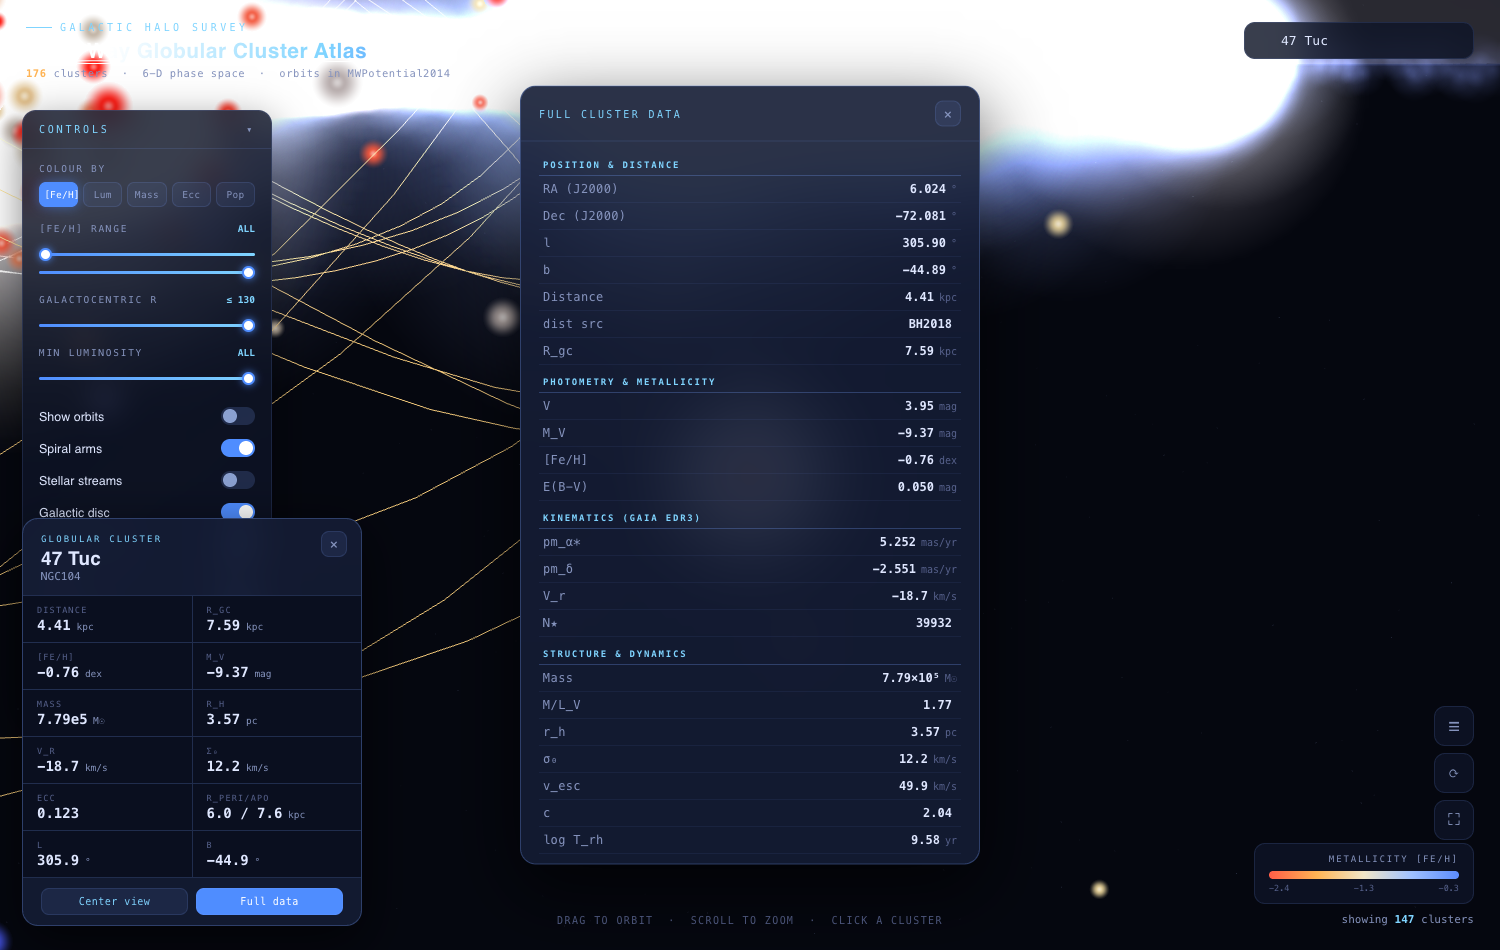
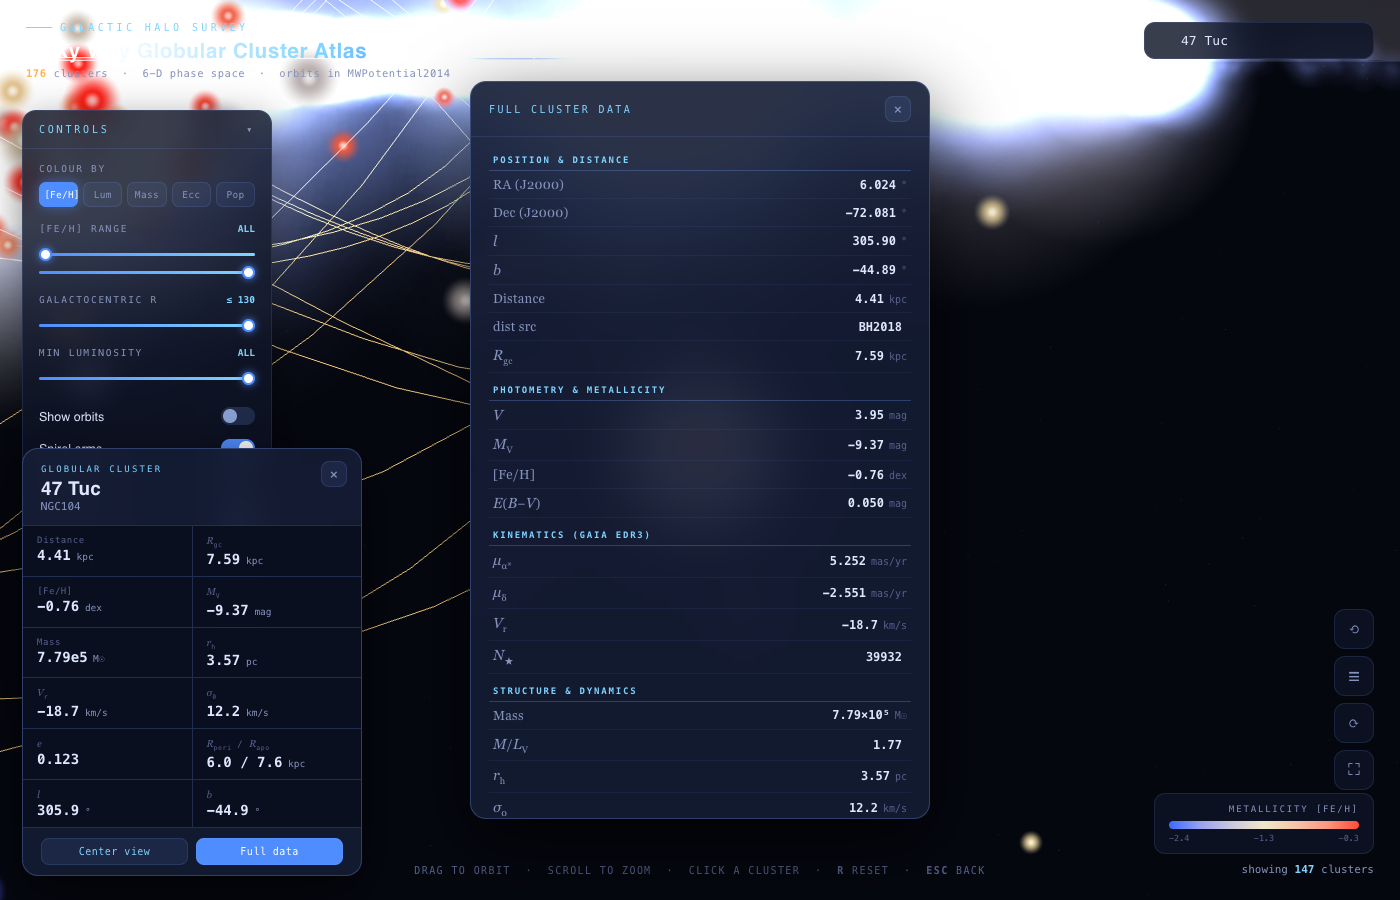
style(viz): LaTeX-style math typesetting for parameter labels
Info card, full-data panel and hover card now render quantities as
italic serif variables with subscripts (R_gc→R_gc, M_V→M_V, σ₀→σ₀,
μ_α*, M/L_V, v_esc, log T_rh, R_peri/R_apo, E(B−V), N_★ …) via
<i class=mx>/<sub>, matching LaTeX math-mode look without any library

diff --git a/viz/app.js b/viz/app.js
@@ -456,6 +456,8 @@ const selMarker = star('rgba(255,255,255,0.9)', 2.2); selMarker.visible = false;
 function cell(k, v, unit='') {
   return `<div class="i-cell"><div class="k">${k}</div><div class="v">${v}<small> ${unit}</small></div></div>`;
 }
+// LaTeX 风格数学符号: 衬线斜体变量 + 下标
+const mx = (s, sub) => `<i class="mx">${s}</i>${sub ? `<sub>${sub}</sub>` : ''}`;
 function fmt(v, nd = 2, na = '—') { return (v == null || isNaN(v)) ? na : (+v).toFixed(nd); }
 
 function showInfo(c) {
@@ -465,15 +467,15 @@ function showInfo(c) {
   const o = c.orbit;
   $('i-grid').innerHTML =
     cell('Distance', fmt(c.dist, 2), 'kpc') +
-    cell('R_gc', fmt(c.rgc, 2), 'kpc') +
+    cell(mx('R', 'gc'), fmt(c.rgc, 2), 'kpc') +
     cell('[Fe/H]', fmt(c.feh, 2), 'dex') +
-    cell('M_V', fmt(c.MV, 2), 'mag') +
+    cell(mx('M', 'V'), fmt(c.MV, 2), 'mag') +
     cell('Mass', c.mass ? (c.mass/1e5).toFixed(2)+'e5' : '—', 'M☉') +
-    cell('r_h', fmt(c.rh, 2), 'pc') +
-    cell('V_r', fmt(c.vr, 1), 'km/s') +
-    cell('σ₀', fmt(c.sigma0, 1), 'km/s') +
-    (o ? cell('Ecc', fmt(o.ecc, 3)) + cell('R_peri/apo', fmt(o.rperi,1)+' / '+fmt(o.apo?o.apo:o.rapo,1), 'kpc') : '') +
-    cell('l', fmt(c.l, 1), '°') + cell('b', fmt(c.b, 1), '°');
+    cell(mx('r', 'h'), fmt(c.rh, 2), 'pc') +
+    cell(mx('V', 'r'), fmt(c.vr, 1), 'km/s') +
+    cell(mx('σ', '0'), fmt(c.sigma0, 1), 'km/s') +
+    (o ? cell(mx('e'), fmt(o.ecc, 3)) + cell(mx('R','peri')+' / '+mx('R','apo'), fmt(o.rperi,1)+' / '+fmt(o.apo?o.apo:o.rapo,1), 'kpc') : '') +
+    cell(mx('l'), fmt(c.l, 1), '°') + cell(mx('b'), fmt(c.b, 1), '°');
   $('info').classList.add('show');
   // marker
   selMarker.position.copy(V(c.x, c.y, c.z)); selMarker.visible = true;
@@ -492,24 +494,24 @@ function showDetail(c) {
   let html = '<table class="d-table">';
   html += `<tr class="d-sec"><td colspan="2">Position &amp; Distance</td></tr>`;
   html += row2('RA (J2000)', fmt(c.ra, 3), '°') + row2('Dec (J2000)', fmt(c.dec, 3), '°');
-  html += row2('l', fmt(c.l, 2), '°') + row2('b', fmt(c.b, 2), '°');
+  html += row2(mx('l'), fmt(c.l, 2), '°') + row2(mx('b'), fmt(c.b, 2), '°');
   html += row2('Distance', fmt(c.dist, 2), 'kpc') + row2('dist src', c.dist_src || '—');
-  html += row2('R_gc', fmt(c.rgc, 2), 'kpc');
+  html += row2(mx('R', 'gc'), fmt(c.rgc, 2), 'kpc');
   html += `<tr class="d-sec"><td colspan="2">Photometry &amp; Metallicity</td></tr>`;
-  html += row2('V', fmt(c.V, 2), 'mag') + row2('M_V', fmt(c.MV, 2), 'mag');
-  html += row2('[Fe/H]', fmt(c.feh, 2), 'dex') + row2('E(B−V)', fmt(c.ebv, 3), 'mag');
+  html += row2(mx('V'), fmt(c.V, 2), 'mag') + row2(mx('M', 'V'), fmt(c.MV, 2), 'mag');
+  html += row2('[Fe/H]', fmt(c.feh, 2), 'dex') + row2(mx('E')+'('+mx('B')+'−'+mx('V')+')', fmt(c.ebv, 3), 'mag');
   html += `<tr class="d-sec"><td colspan="2">Kinematics (Gaia EDR3)</td></tr>`;
-  html += row2('pm_α*', fmt(c.pmra, 3), 'mas/yr') + row2('pm_δ', fmt(c.pmde, 3), 'mas/yr');
-  html += row2('V_r', fmt(c.vr, 1), 'km/s') + row2('N★', has(c.nstar) ? c.nstar : '—');
+  html += row2(mx('μ','α*'), fmt(c.pmra, 3), 'mas/yr') + row2(mx('μ','δ'), fmt(c.pmde, 3), 'mas/yr');
+  html += row2(mx('V','r'), fmt(c.vr, 1), 'km/s') + row2(mx('N','★'), has(c.nstar) ? c.nstar : '—');
   html += `<tr class="d-sec"><td colspan="2">Structure &amp; Dynamics</td></tr>`;
   html += row2('Mass', has(c.mass) ? (c.mass/1e5).toFixed(2)+'×10⁵' : '—', 'M☉');
-  html += row2('M/L_V', fmt(c.ml, 2)) + row2('r_h', fmt(c.rh, 2), 'pc');
-  html += row2('σ₀', fmt(c.sigma0, 1), 'km/s') + row2('v_esc', fmt(c.vesc, 1), 'km/s');
-  html += row2('c', fmt(c.c, 2)) + row2('log T_rh', fmt(c.logtrh, 2), 'yr');
+  html += row2(mx('M')+'/'+mx('L','V'), fmt(c.ml, 2)) + row2(mx('r','h'), fmt(c.rh, 2), 'pc');
+  html += row2(mx('σ','0'), fmt(c.sigma0, 1), 'km/s') + row2(mx('v','esc'), fmt(c.vesc, 1), 'km/s');
+  html += row2(mx('c'), fmt(c.c, 2)) + row2('log '+mx('T','rh'), fmt(c.logtrh, 2), 'yr');
   if (c.orbit) {
     html += `<tr class="d-sec"><td colspan="2">Orbit (MWPotential2014, 3 Gyr)</td></tr>`;
-    html += row2('R_peri', fmt(o.rperi, 2), 'kpc') + row2('R_apo', fmt(o.apo, 2), 'kpc');
-    html += row2('eccentricity', fmt(o.ecc, 3)) + row2('z_max', fmt(o.zmax, 2), 'kpc');
+    html += row2(mx('R','peri'), fmt(o.rperi, 2), 'kpc') + row2(mx('R','apo'), fmt(o.apo, 2), 'kpc');
+    html += row2(mx('e'), fmt(o.ecc, 3)) + row2(mx('z','max'), fmt(o.zmax, 2), 'kpc');
     html += row2('sense', o.retro ? 'retrograde 逆行' : 'prograde 顺行');
   }
   html += '</table>';
@@ -561,9 +563,9 @@ renderer.domElement.addEventListener('pointermove', e => {
         setHover(i);
         htip.innerHTML = `<div class="ht-name">${c.name}</div>` +
           (c.id !== c.name ? `<div class="ht-id">${c.id}</div>` : '') +
-          `<div class="ht-row"><span>d</span><b>${fmt(c.dist,2)} kpc</b></div>` +
+          `<div class="ht-row"><span>${mx('d')}</span><b>${fmt(c.dist,2)} kpc</b></div>` +
           `<div class="ht-row"><span>[Fe/H]</span><b>${fmt(c.feh,2)}</b></div>` +
-          `<div class="ht-row"><span>M_V</span><b>${fmt(c.MV,2)}</b></div>` +
+          `<div class="ht-row"><span>${mx('M','V')}</span><b>${fmt(c.MV,2)}</b></div>` +
           `<div class="ht-hint">click for details</div>`;
         htip.style.opacity = 1;
         // 防止超出屏幕右/下边缘

diff --git a/viz/index.html b/viz/index.html
@@ -112,7 +112,10 @@ input[type=range]::-moz-range-thumb{width:13px;height:13px;border-radius:50%;
 #i-close:hover{background:var(--rich);color:#fff;border-color:var(--rich)}
 .i-grid{display:grid;grid-template-columns:1fr 1fr;gap:1px;background:var(--line);max-height:42vh;overflow-y:auto}
 .i-cell{background:var(--bg2);padding:9px 14px}
-.i-cell .k{font-family:var(--mono);font-size:8.5px;letter-spacing:.14em;color:var(--faint);text-transform:uppercase}
+.i-cell .k{font-family:var(--mono);font-size:9px;letter-spacing:.06em;color:var(--faint)}
+/* LaTeX 风格数学符号: 衬线斜体变量 + 下标 */
+.mx{font-family:Georgia,'Times New Roman','STIX Two Math',serif;font-style:italic;font-size:1.12em;letter-spacing:0}
+.mx sub,.k sub,.dk sub,.ht-row span sub{font-size:.72em;font-style:normal}
 .i-cell .v{font-family:var(--mono);font-size:14px;color:var(--txt);margin-top:2px;font-weight:600}
 .i-cell .v small{font-size:9.5px;color:var(--dim);font-weight:400}
 .i-foot{padding:10px 18px;border-top:1px solid var(--line);display:flex;gap:8px}
@@ -139,7 +142,7 @@ input[type=range]::-moz-range-thumb{width:13px;height:13px;border-radius:50%;
 #detail-body::-webkit-scrollbar-thumb{background:var(--line2);border-radius:3px}
 .d-table{width:100%;border-collapse:collapse;font-family:var(--mono)}
 .d-table td{padding:6px 4px;border-bottom:1px solid rgba(120,160,255,.07);font-size:12px}
-.d-table .dk{color:var(--dim);letter-spacing:.03em}
+.d-table .dk{color:var(--dim);letter-spacing:.02em;font-family:Georgia,'Times New Roman',serif;font-size:13px}
 .d-table .dv{color:var(--txt);text-align:right;font-weight:600}
 .d-table .du{color:var(--faint);font-weight:400;font-size:10px;margin-left:5px}
 .d-table .d-sec td{padding:12px 4px 5px;border-bottom:1px solid var(--line2);
